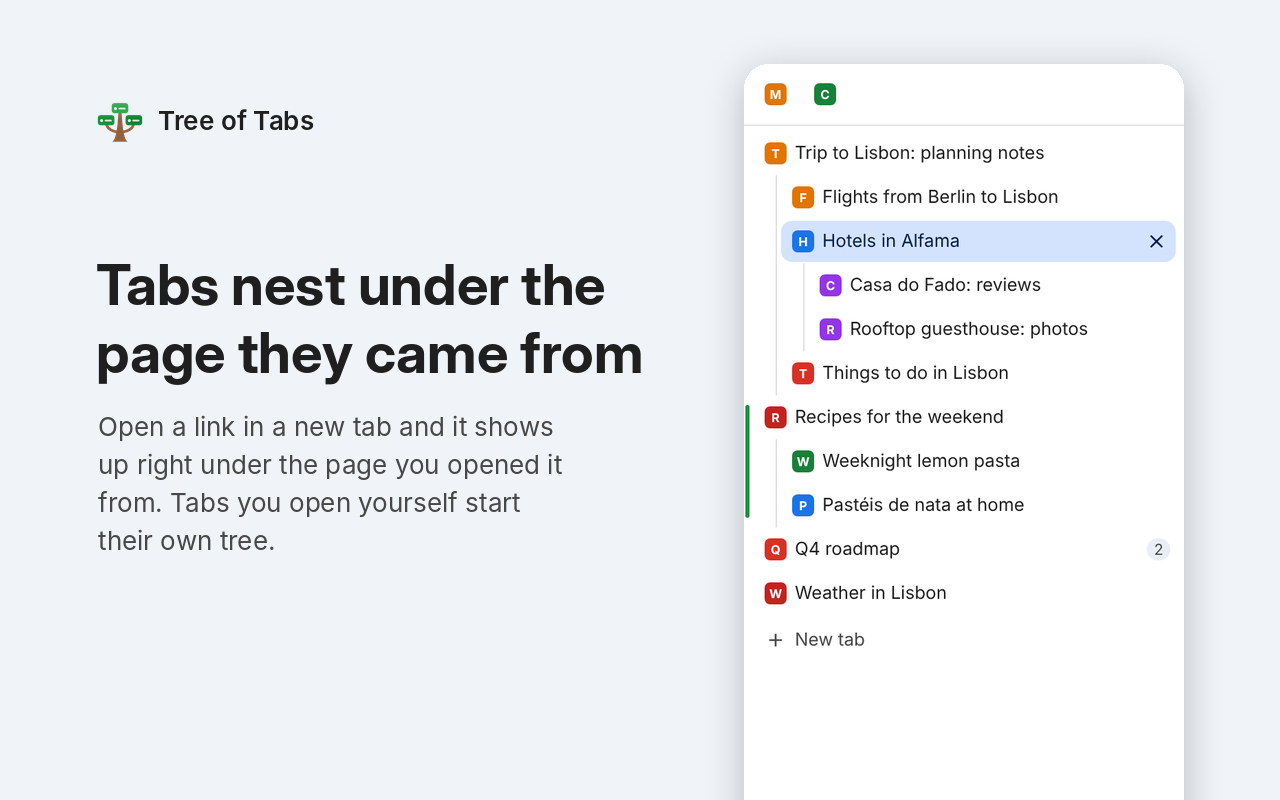
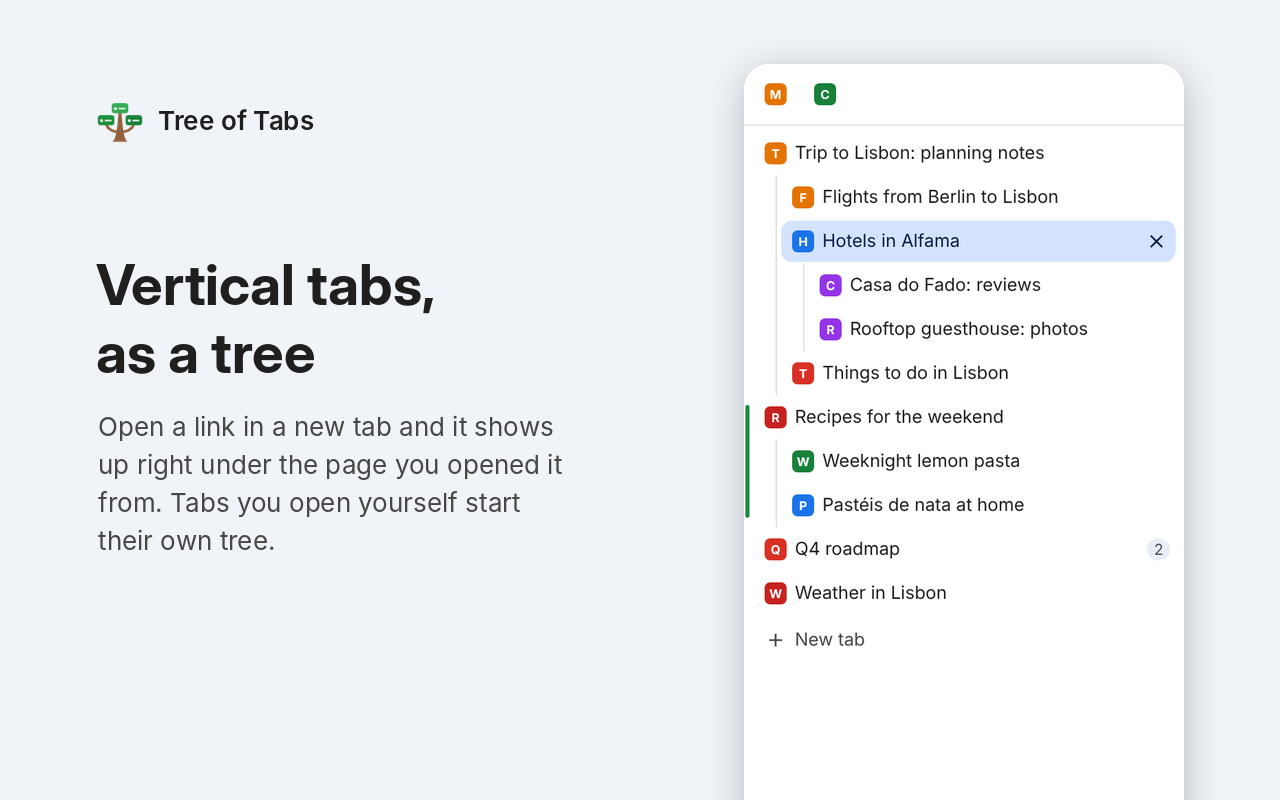
Lead every description with "vertical tabs"
The manifest description, the README, the store listing text, the banner
and the store images now open with "Vertical tabs", the words people
search for when they look for this kind of extension.

Claude-Session: https://claude.ai/code/session_01FXnCZY6anDceir7JTrzKPx

Changed region(s): [[0.0625, 0.3125, 0.5, 0.5]]

diff --git a/tools/make-store-images.py b/tools/make-store-images.py
@@ -16,7 +16,7 @@ THEMES = {
     'dark': dict(bg=(31, 31, 31), title=(227, 227, 227), text=(196, 199, 197), card=(40, 42, 44), shadow=140),
 }
 SHOTS = [
-    ('nest', 'light', 'Tabs nest under the\npage they came from',
+    ('nest', 'light', 'Vertical tabs,\nas a tree',
      'Open a link in a new tab and it shows up right under the page you opened it from. '
      'Tabs you open yourself start their own tree.'),
     ('drag', 'light', 'Drag to\nreorganize',
@@ -91,7 +91,7 @@ def promo_tile():
     canvas.paste(logo, (28, 52), logo)
     draw.text((28, 128), 'Tree of', font=font('InterDisplay-Bold.otf', 38), fill=colors['title'])
     draw.text((28, 170), 'Tabs', font=font('InterDisplay-Bold.otf', 38), fill=colors['title'])
-    draw.text((29, 222), 'Your tabs as a tree', font=font('Inter-Regular.otf', 17), fill=colors['text'])
+    draw.text((29, 222), 'Vertical tabs as a tree', font=font('Inter-Regular.otf', 17), fill=colors['text'])
     canvas.save(os.path.join(OUT, 'promo-tile.png'), optimize=True)
 
 
@@ -106,7 +106,7 @@ def marquee_tile():
     logo = icon(112)
     canvas.paste(logo, (120, 96), logo)
     draw.text((118, 236), 'Tree of Tabs', font=font('InterDisplay-Bold.otf', 80), fill=colors['title'])
-    for i, line in enumerate(['See your tabs as a tree', 'in Chrome\u2019s side panel.']):
+    for i, line in enumerate(['Vertical tabs as a tree', 'in Chrome\u2019s side panel.']):
         draw.text((121, 344 + 44 * i), line, font=font('Inter-Regular.otf', 32), fill=colors['text'])
     canvas.save(os.path.join(OUT, 'marquee-tile.png'), optimize=True)
 

diff --git a/tools/make-social-preview.py b/tools/make-social-preview.py
@@ -26,7 +26,7 @@ def build(scheme, colors):
     icon = icon.crop((16, 16, 112, 112)).resize((132, 132), Image.LANCZOS)
     image.paste(icon, (96, 150), icon)
     draw.text((96, 310), 'Tree of Tabs', font=font('InterDisplay-Bold.otf', 84), fill=colors['title'])
-    for i, line in enumerate(['See your tabs as a tree', 'in Chrome’s side panel.']):
+    for i, line in enumerate(['Vertical tabs as a tree', 'in Chrome’s side panel.']):
         draw.text((98, 420 + 46 * i), line, font=font('Inter-Regular.otf', 34), fill=colors['text'])
     draw.text((98, 540), 'Free and open source', font=font('Inter-Medium.otf', 26), fill=colors['accent'])
 

diff --git a/README.md b/README.md
@@ -2,12 +2,13 @@
 
 <picture>
   <source media="(prefers-color-scheme: dark)" srcset="docs/social-preview-dark.png">
-  <img src="docs/social-preview.png" alt="Tree of Tabs: see your tabs as a tree in Chrome's side panel. Free and open source. Next to it, the side panel with tabs nested under the tabs they were opened from.">
+  <img src="docs/social-preview.png" alt="Tree of Tabs: vertical tabs as a tree in Chrome's side panel. Free and open source. Next to it, the side panel with tabs nested under the tabs they were opened from.">
 </picture>
 
-See your tabs as a tree in Chrome's side panel. Tabs you open from a page nest
-under it, so you can always tell where a tab came from and which tabs belong
-together. Drag tabs to reorganize them, and collapse the trees you're not using.
+Vertical tabs for Chrome, shown as a tree in the side panel. Tabs you open from
+a page nest under it, so you can always tell where a tab came from and which
+tabs belong together. Drag tabs to reorganize them, and collapse the trees
+you're not using.
 It works like Firefox's [Tree Style Tab](https://github.com/piroor/treestyletab),
 and looks like part of Chrome.
 

diff --git a/CHROMEWEBSTORE.md b/CHROMEWEBSTORE.md
@@ -13,12 +13,12 @@ Tree of Tabs
 
 **Short Description** (120 of 132 characters; same as the manifest description)
 
-See your tabs as a tree in the side panel. Tabs you open from a page nest under it, and you can drag them to reorganize.
+Vertical tabs as a tree in the side panel. Tabs you open from a page nest under it, and you can drag them to reorganize.
 
 **Detailed Description** (plain text: the store strips Markdown)
 
 ```
-See your tabs as a tree in the side panel. Every tab you open from a page appears nested under that page, so you can always tell where a tab came from and which tabs belong together.
+Vertical tabs for Chrome, shown as a tree in the side panel. Every tab you open from a page appears nested under that page, so you can always tell where a tab came from and which tabs belong together.
 
 FEATURES
 • Automatic nesting: links you open in a new tab, middle-clicked links and pages that open tabs show up under the tab they came from. Tabs you open yourself, from the address bar, a bookmark or a new tab, start their own tree.
